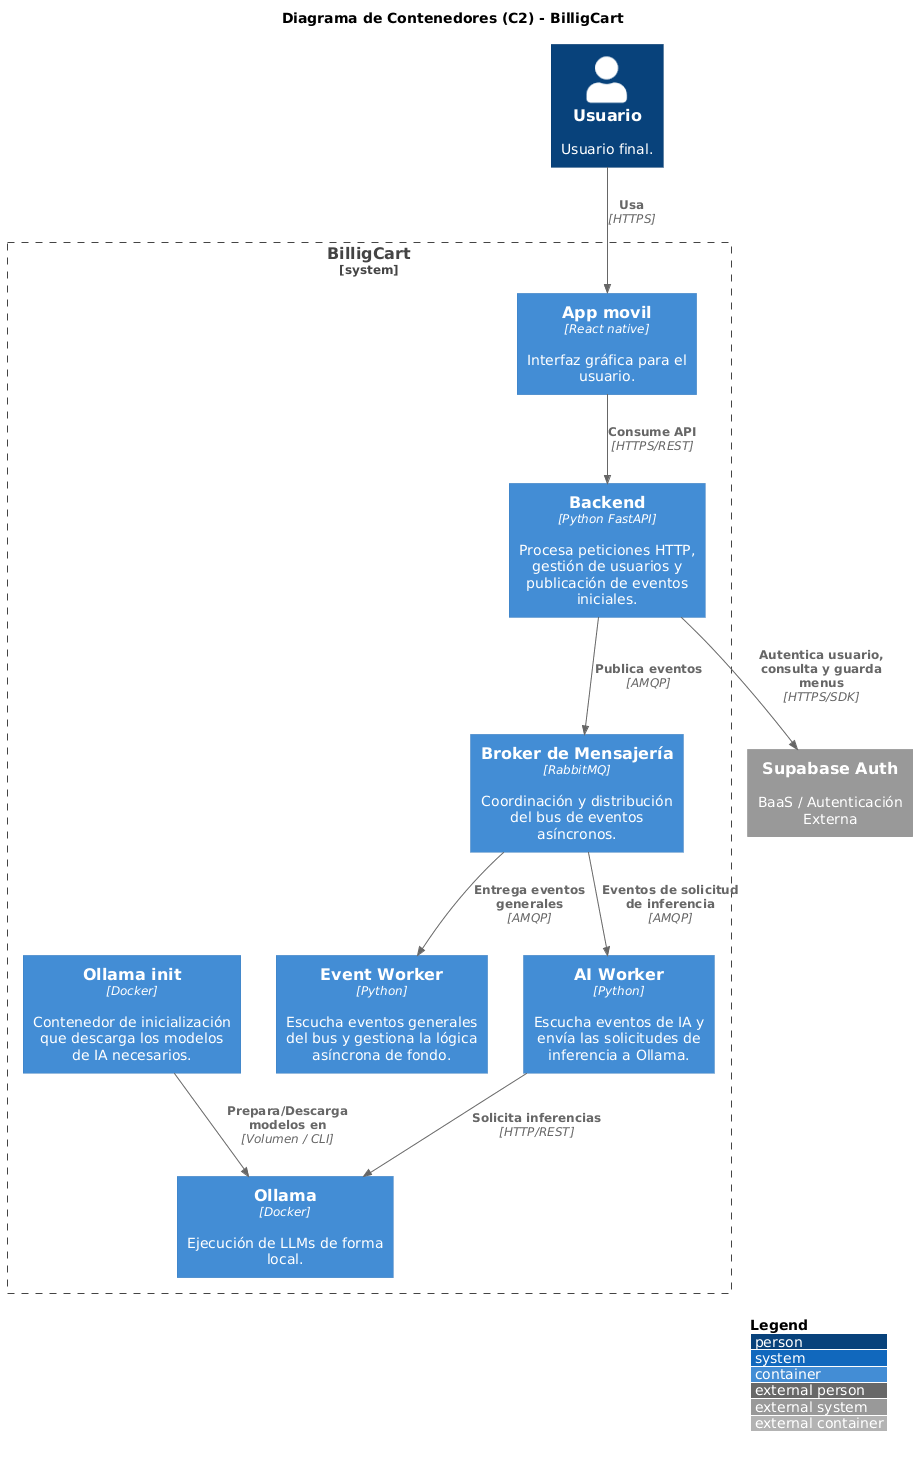
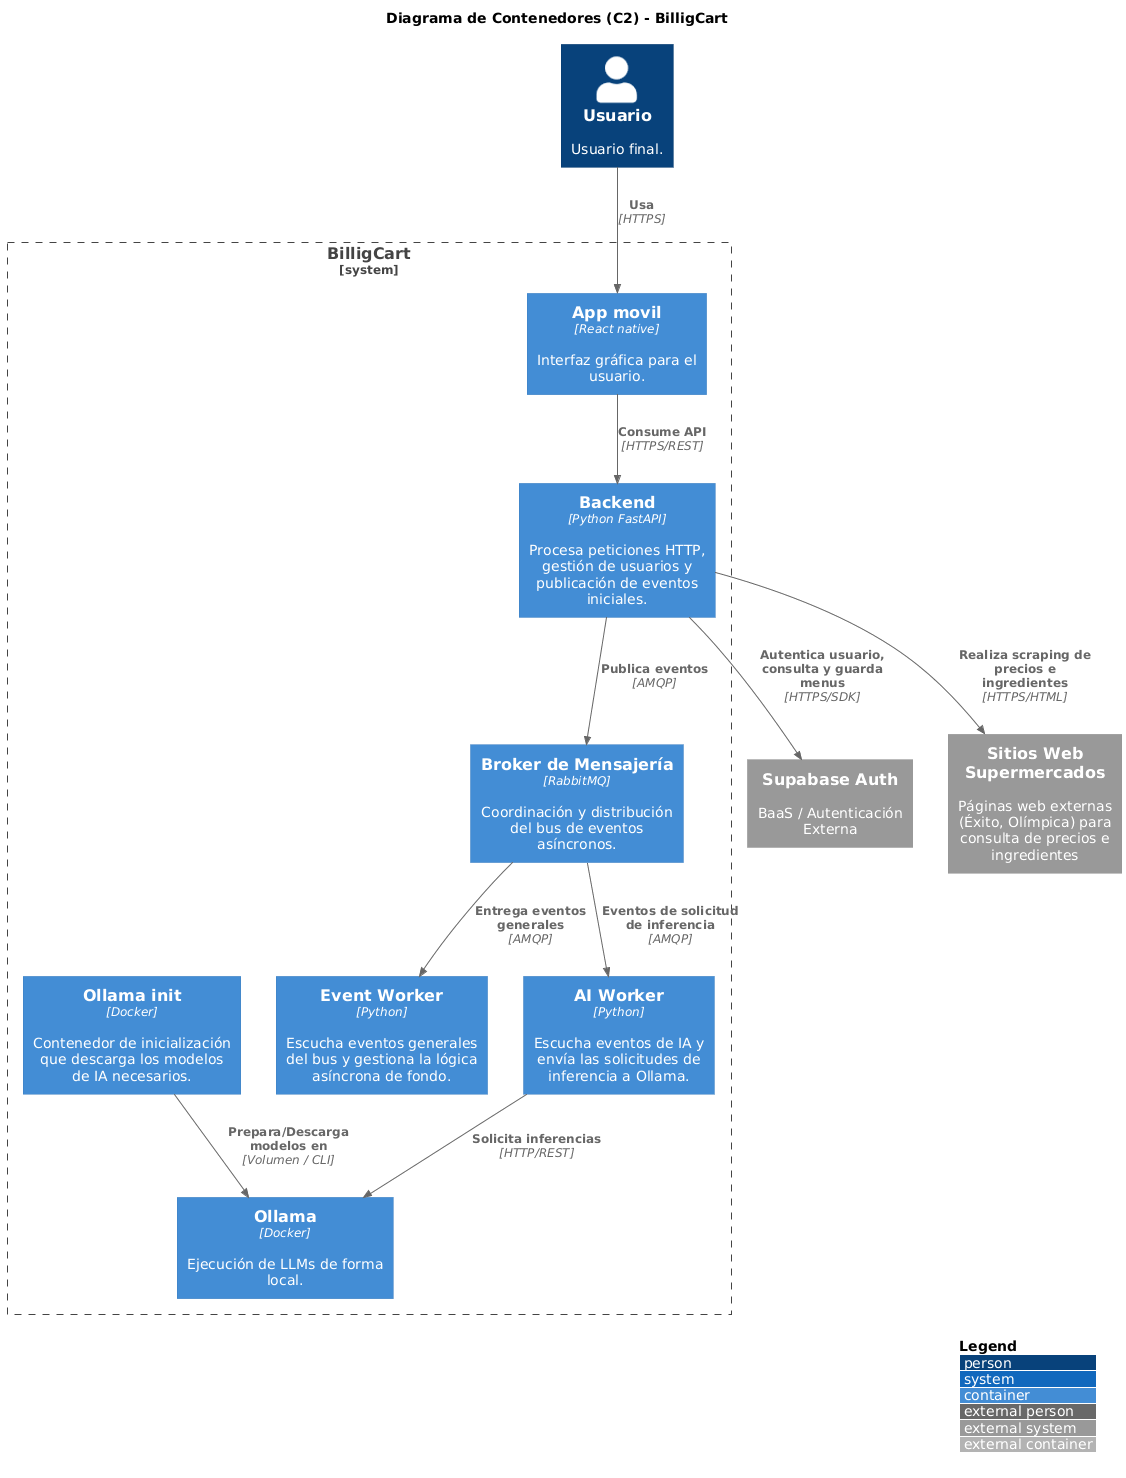
Diagramas de C4 model y readme actualizado

diff --git a/README.md b/README.md
@@ -1,7 +1,143 @@
 # BilligCart
 
-## Instrucciones
-docker compose up -d --build
+BilligCart es una aplicación que genera menús semanales con inteligencia artificial, consulta productos de supermercados para encontrar precios y guarda la información del menú y sus ingredientes en Supabase.
 
-descarga de modelos:
-- docker exec -it ollama ollama pull gemma4:e4b
+## Tecnologías
+
+- **Backend:** Python y FastAPI.
+- **Frontend:** puerto `8081`.
+- **Base de datos:** Supabase.
+- **Mensajería y eventos:** RabbitMQ.
+- **Generación con IA:** Ollama.
+- **Ejecución de servicios:** Docker Compose.
+
+## Arquitectura
+
+El backend está organizado por capas para separar las reglas del negocio, los casos de uso y los detalles técnicos:
+
+- **Domain:** entidades y reglas centrales del negocio.
+- **Application:** casos de uso y coordinación de la lógica de la aplicación.
+- **Infrastructure:** integración con servicios externos, mensajería y persistencia.
+
+Además, el proyecto emplea los siguientes patrones y flujos de arquitectura.
+
+### Visitor: cálculo de costes y estadísticas
+
+El cálculo de costes se mantiene separado de la definición de los productos. Cada ingrediente contiene la información necesaria para calcular su coste, como la cantidad, la unidad de medida y el precio por unidad. Los ingredientes se reúnen en una colección y se recorren para obtener el coste total mediante `getCostoTotal()`.
+
+Esta separación facilita calcular costes o estadísticas para distintos tipos de productos sin concentrar toda la lógica en la definición de cada uno. El cálculo puede trabajar con cantidades expresadas en distintas unidades de medida —por ejemplo, gramos, kilogramos, libras o litros— aplicando las conversiones necesarias para obtener resultados comparables. No se trata de convertir monedas, sino de gestionar las unidades de medida de los ingredientes.
+
+### Builder y Director: extracción de productos de supermercados
+
+El endpoint `GET /api/v1/ingrediente/fetch/{id}` inicia el proceso de búsqueda de productos para un ingrediente.
+
+1. Se define un **Builder (scraper)** para cada supermercado compatible.
+2. Se instancia un **Director** asociado a ese Builder y se llama a `process_list(RAW_JSON)`, donde `RAW_JSON` es la respuesta recibida de la API del supermercado.
+3. El Director coordina las funciones del Builder que extraen los datos relevantes, como el nombre del producto, el precio y la URL.
+4. Cada Builder transforma los resultados al formato común de ingrediente que utiliza el resto de la aplicación.
+5. Fuera del Builder, el caso de uso compara los productos encontrados, selecciona el de menor precio y guarda el resultado en la base de datos.
+
+La lógica de búsqueda y normalización se encuentra en `src/application/commands/ingrediente/scrape_ingrediente`. Estandarizar los datos permite procesar de la misma forma productos obtenidos de distintas APIs de supermercados.
+
+### Eventos y mensajería con RabbitMQ
+
+La generación del menú utiliza mensajería asíncrona y eventos para separar la respuesta de la IA de la persistencia del resultado.
+
+1. El backend envía la solicitud a la cola `ai_requests` y espera la respuesta mediante `reply_to` y `correlation_id`.
+2. `ai_worker` consume la solicitud, llama a Ollama y devuelve el resultado al backend.
+3. Durante el proceso, `ai_worker` publica eventos de inicio, finalización o error de generación en el exchange `domain_events`.
+4. `event_worker` consume `MenuGenerationCompleted` y ejecuta el caso de uso que guarda el menú y sus ingredientes en Supabase.
+5. Los eventos que no se pueden procesar se derivan a la cola de mensajes fallidos (dead-letter queue) configurada en RabbitMQ.
+
+Los contratos, la publicación, el registro de handlers y la integración con RabbitMQ están organizados en `src/events/`. La persistencia del menú es asíncrona, por lo que puede completarse después de que el backend haya respondido a la petición de generación.
+
+## Puertos y servicios
+
+| Servicio | Dirección | Uso |
+|---|---|---|
+| Frontend | `http://localhost:8081` | Interfaz de usuario |
+| Backend | `http://localhost:8000` | API REST |
+| Swagger | `http://localhost:8000/docs` | Documentación interactiva de la API |
+| RabbitMQ AMQP | `localhost:5672` | Comunicación entre servicios |
+| Panel de RabbitMQ | `http://localhost:15672` *(solo si está habilitado el plugin y publicado el puerto)* | Administración y monitoreo |
+
+Dentro de Docker Compose, los servicios deben comunicarse usando el nombre del servicio. Por ejemplo, el backend se conecta a RabbitMQ mediante `rabbitmq:5672`, no mediante `localhost:5672`. El `.env.example` confirma el puerto AMQP `5672`; no confirma por sí solo que el panel web esté habilitado.
+
+## Requisitos
+
+- **Backend:** Docker y Docker Compose.
+- **Frontend:** Node.js (versión LTS) y npm, que se instala junto con Node.js.
+- Un proyecto de Supabase y sus credenciales.
+- Un archivo `.env` configurado a partir de `.env.example`.
+- Para probar la app en un dispositivo móvil, un entorno compatible con Expo (por ejemplo, Expo Go si es compatible con el SDK del proyecto, o un emulador configurado).
+
+El frontend utiliza Expo. Si en `frontend/package.json` aparece `"expo": "~51.0.0"`, esa es la versión de Expo SDK que debe respetarse al instalar las dependencias; no instales `expo@latest` por separado, ya que podría generar incompatibilidades. Expo SDK 51 es una versión antigua, por lo que conviene comprobar la compatibilidad del entorno de ejecución con esa versión.
+
+## Configuración
+
+1. Clona el repositorio y entra en la carpeta del proyecto.
+2. Crea un archivo `.env` usando `.env.example` como referencia.
+3. Sustituye los valores de ejemplo por tus credenciales. No subas el `.env` ni publiques claves o contraseñas reales.
+
+Las variables definidas en `.env.example` son:
+
+```env
+SUPABASE_URL=https://XXXXXXXXXXXX.supabase.co
+SUPABASE_KEY=SECRET_KEY
+
+RABBITMQ_USER=XXXXXXXX
+RABBITMQ_PASSWORD=XXXXXXXX
+RABBITMQ_QUEUE=ai_requests
+RABBITMQ_HOST=rabbitmq
+RABBITMQ_PORT=5672
+
+OLLAMA_MODEL=gemma4:e4b
+
+RABBITMQ_EVENT_EXCHANGE=domain_events
+RABBITMQ_EVENT_DEAD_LETTER_EXCHANGE=domain_events.dlx
+RABBITMQ_EVENT_QUEUE=application_events
+RABBITMQ_VHOST=/
+```
+
+Asegúrate de que Ollama tenga disponible el modelo indicado por `OLLAMA_MODEL`.
+
+## Ejecución
+
+El backend y el frontend se ejecutan desde **dos terminales distintas**.
+
+### 1. Backend y servicios Docker
+
+En la primera terminal, entra en la carpeta `backend` y ejecuta allí los comandos de Docker Compose:
+
+```bash
+cd backend
+docker compose up -d --build
+```
+
+Para consultar los registros de los servicios principales (también desde `backend`):
+
+```bash
+docker compose logs -f backend ai_worker event_worker
+```
+
+Para detener los servicios, ejecuta desde esa misma carpeta:
+
+```bash
+docker compose down
+```
+
+### 2. Frontend con Expo
+
+En una segunda terminal, entra en la carpeta `frontend`, instala las dependencias y arranca Expo:
+
+```bash
+cd frontend
+npm install
+npx expo start
+```
+
+`npm install` descarga las dependencias declaradas por el proyecto. `npx expo start` inicia el servidor de desarrollo y muestra un código QR o las opciones para abrir la aplicación en un emulador compatible. Para abrirla en un teléfono, el dispositivo y el ordenador normalmente deben estar en la misma red Wi-Fi.
+
+## Generación y persistencia del menú
+
+El menú semanal contempla siete días con desayuno, almuerzo y cena: **21 platos en total**. Ollama genera el menú a través de `ai_worker`; después, `event_worker` procesa el evento de finalización y persiste los platos y sus ingredientes en Supabase. Si el menú no aparece guardado inmediatamente, revisa los registros de `ai_worker` y `event_worker`.
